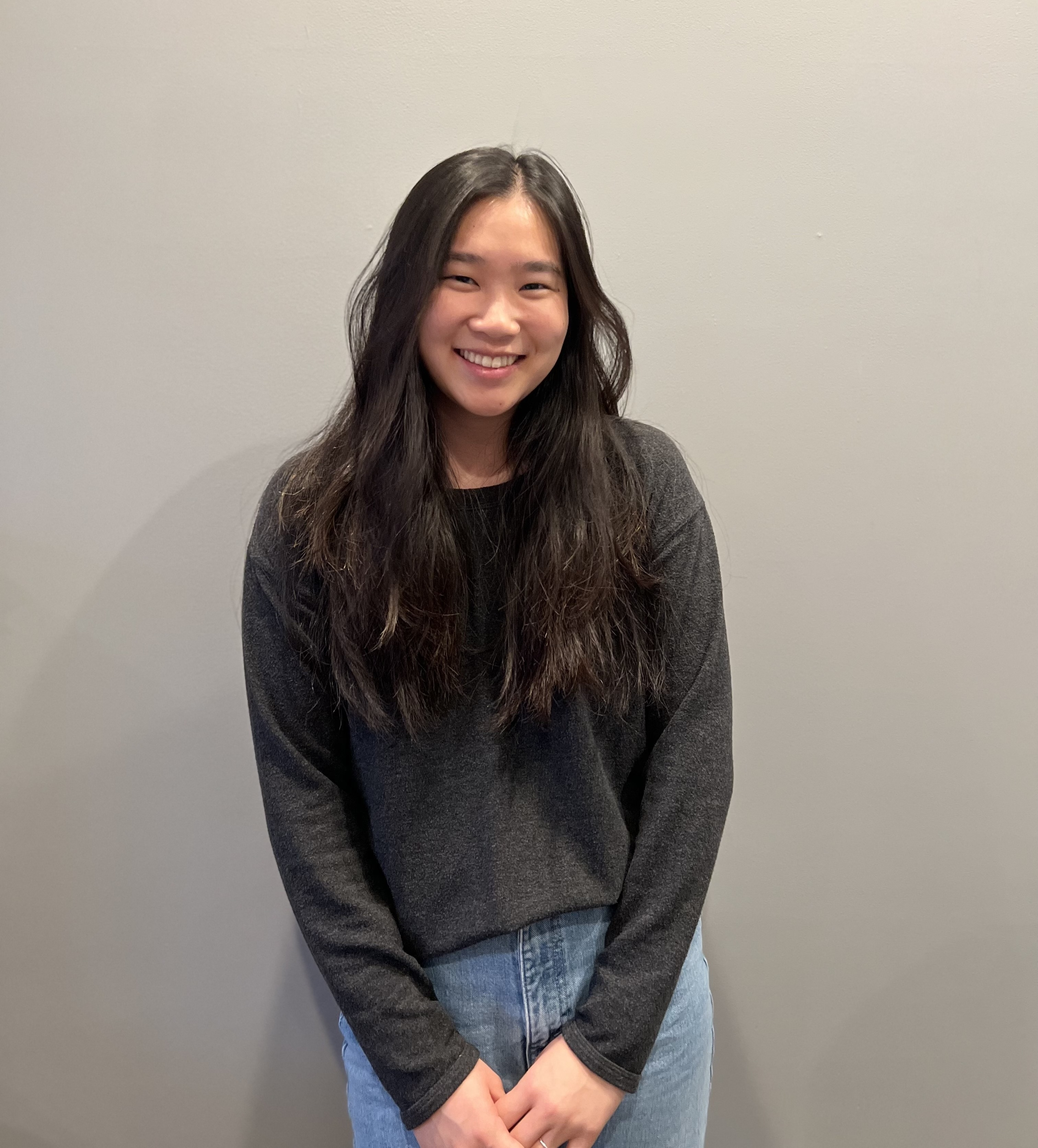
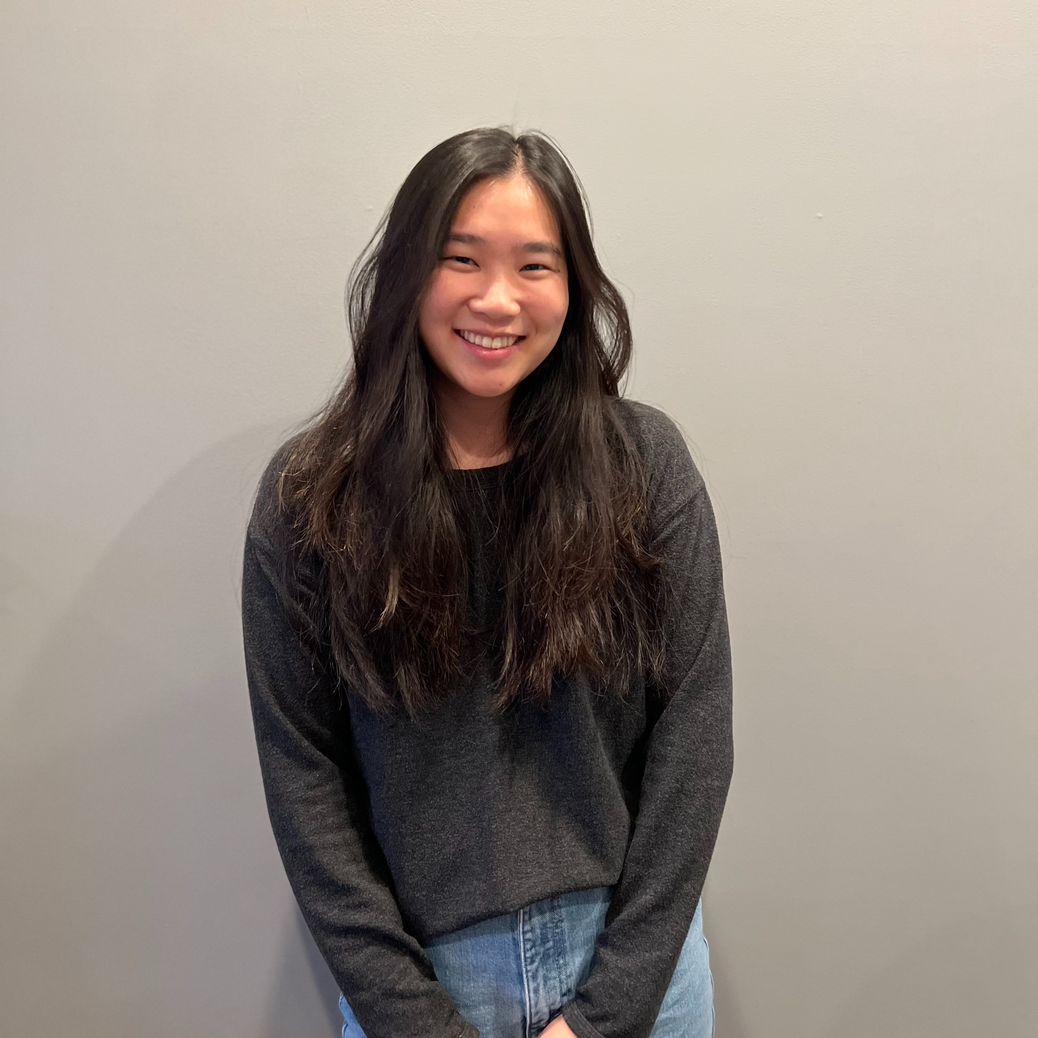
edited photos and added some more throwbacks

Changed region(s): [[0.2177, 0.2177, 0.7152, 1.0], [0.4042, 0.1244, 0.5597, 0.1555]]

diff --git a/_staff/sam-h.md b/_staff/sam-h.md
@@ -1,10 +1,10 @@
 ---
-name: Sam Gundotra
+name: Sam Hong
 pronouns: She/Her
 role: UTA 
-email: samantha_gundotra@brown.edu
-bio: Hi! I'm a sophomore interested in cs and entrepreneurship :D In my free time I enjoy crafting, hiking, watching selling sunset, and listening to true crime podcasts. I also like asking people which district they think they would be in if they were in the Hunger Games. I'm excited to meet you all!
-hometown: Los Gatos, CA
-photo: sam-g.jpg
-throwback_photo: sam-g-throwback.jpg
+email: samantha_hong@brown.edu
+bio: hello! im a junior studying computational biology and in my free time i spend an unhealthy amount of time on tiktok and netflix, but recently have been also enjoying knitting and jigsaw puzzles :-)
+hometown: Diamond Bar, CA
+photo: sam-h.jpg
+throwback_photo: sam-h-throwback.jpg
 ---

diff --git a/_staff/sam-g.md b/_staff/sam-g.md
@@ -1,0 +1,10 @@
+---
+name: Sam Gundotra
+pronouns: She/Her
+role: UTA 
+email: samantha_gundotra@brown.edu
+bio: Hi! I'm a sophomore interested in cs and entrepreneurship :D In my free time I enjoy crafting, hiking, watching selling sunset, and listening to true crime podcasts. I also like asking people which district they think they would be in if they were in the Hunger Games. I'm excited to meet you all!
+hometown: Los Gatos, CA
+photo: sam-g.jpg
+throwback_photo: sam-g-throwback.jpg
+---

diff --git a/_staff/milda.md b/_staff/milda.md
@@ -5,5 +5,5 @@ role: Professor
 email: milda@brown.edu
 bio: I remember the early 2000s as the most awkward time in my life, but in present-day 2022 I am happily teaching CS to the fantastic students here! Outside of computers, I enjoy cooking, going outside, and taking care of plants.
 photo: milda.jpg
-throwback_photo: milda-throwback.jpg
+throwback_photo: milda.jpg
 ---
